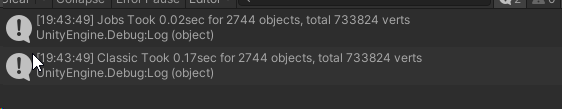
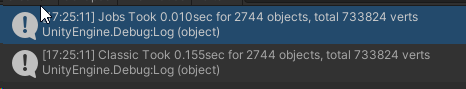
add

diff --git a/MyNote/快速学点MeshAPI.md b/MyNote/快速学点MeshAPI.md
@@ -32,6 +32,9 @@
   - [**3.1 基础准备**](#31-基础准备)
   - [**3.2 传统合并**](#32-传统合并)
   - [**3.3 Job合并**](#33-job合并)
+  - [**3.3.1 Job模板**](#331-job模板)
+  - [**3.3.2 属性**](#332-属性)
+  - [**3.3.3 合并**](#333-合并)
 
 <!-- /code_chunk_output -->
 
@@ -1071,7 +1074,9 @@ public class CombineSceneMesh : MonoBehaviour
 
 修改方法 **CreateMesh_ClassicAPI**, 先写传统的合并Mesh方法.
 
-这里normal用重新计算, 效率会快点.
+顶点位置做一次矩阵转换, 然后顶点索引做Offset即可.
+
+这里normal用自动生成 效率会快点.
 
 ```CSharp
 
@@ -1126,15 +1131,16 @@ public static void CreateMesh_ClassicAPI(GameObject root, Material mat)
 	newMesh.RecalculateNormals();
 
 	var dur = sw.ElapsedMilliseconds;
-	Debug.Log($"Classic Took {dur / 1000.0:F2}sec for {meshFilters.Length} objects, total {allVerts.Count} verts");
+	Debug.Log($"Classic Took {dur / 1000.0:F3}sec for {meshFilters.Length} objects, total {allVerts.Count} verts");
 }
 
 ```
 
 ### **3.3 Job合并**
 
-先创建 **ProcessMeshDataJob** .
+### **3.3.1 Job模板**
 
+先创建Job **ProcessMeshDataJob** 的模板.
 
 ```CSharp
 
@@ -1163,6 +1169,108 @@ public class CombineSceneMesh : MonoBehaviour
 }
 
 ```
+
+### **3.3.2 属性**
+
+先写属性吧.
+
+可以把Job想成多线程, 所以 导出的数据 要提前划分好写入区间, 避免写入的时候出现覆盖等情况. 这里的的执行数量 就是要合并模型的数量.
+
+创建方法 **CreateInputArrays** 用于初始化属性相关的容器. 数据可以不用初始化, 因为等下会在外面赋值的. 
+
+**Mesh.MeshDataArray meshData** 是要合并的Mesh数据. **Mesh.MeshData outputMesh** 是要导出的Mesh.
+
+Normla和Bound也都在Job里面一次性做完.
+
+```CSharp
+
+[BurstCompile]
+private struct ProcessMeshDataJob : IJobParallelFor
+{
+	[ReadOnly]
+	public Mesh.MeshDataArray meshData;
+
+	public Mesh.MeshData outputMesh;
+
+	//[DeallocateOnJobCompletion] 数组在运行完成时自动释放
+	[ReadOnly, DeallocateOnJobCompletion] 
+	public NativeArray<int> vertexStart;
+
+	[ReadOnly, DeallocateOnJobCompletion] 
+	public NativeArray<int> indexStart;
+
+	[ReadOnly, DeallocateOnJobCompletion] 
+	public NativeArray<float4x4> xform;
+
+	public NativeArray<float3x2> bounds;
+
+	//[NativeDisableContainerSafetyRestriction] 禁用安全性检查, 如果Job运行时, dispose NativeArray, Unity可能会崩溃
+	//https://docs.unity3d.com/cn/2019.4/ScriptReference/Unity.Collections.LowLevel.Unsafe.NativeDisableContainerSafetyRestrictionAttribute.html
+	[NativeDisableContainerSafetyRestriction]
+	public NativeArray<float3> tempVertices;
+
+	[NativeDisableContainerSafetyRestriction]
+	public NativeArray<float3> tempNormals;
+
+	public void CreateInputArrays(int meshCount)
+	{
+		vertexStart = new NativeArray<int>(meshCount, Allocator.TempJob, NativeArrayOptions.UninitializedMemory);
+		indexStart = new NativeArray<int>(meshCount, Allocator.TempJob, NativeArrayOptions.UninitializedMemory);
+		xform = new NativeArray<float4x4>(meshCount, Allocator.TempJob, NativeArrayOptions.UninitializedMemory);
+		bounds = new NativeArray<float3x2>(meshCount, Allocator.TempJob, NativeArrayOptions.UninitializedMemory);
+	}
+}
+
+```
+
+### **3.3.3 合并**
+
+继续完善Job 的 **Execute** .
+
+```CSharp
+
+[BurstCompile]
+private struct ProcessMeshDataJob : IJobParallelFor
+{
+	...
+
+	public void Execute(int index)
+	{
+		var data = meshData[index];
+		var vCount = data.vertexCount;
+		var mat = xform[index];
+		var vStart = vertexStart[index];
+
+		data.GetVertices(tempVertices.Reinterpret<Vector3>());
+		data.GetNormals(tempNormals.Reinterpret<Vector3>());
+
+		var outputVerts = outputMesh.GetVertexData<Vector3>();
+		var outputNormals = outputMesh.GetVertexData<Vector3>(stream: 1);
+
+		float3x2 b = new float3x2(Mathf.Infinity, Mathf.NegativeInfinity);
+		for (var i = 0; i < vCount; i++)
+		{
+			var pos = tempVertices[i];
+			pos = math.mul(mat, new float4(pos, 1)).xyz;
+			outputVerts[i + vStart] = pos;
+			var nor = tempNormals[i];
+			nor = math.normalize(math.mul(mat, new float4(nor, 0)).xyz);
+			outputNormals[i + vStart] = nor;
+			b.c0 = math.min(b.c0, pos);
+			b.c1 = math.max(b.c1, pos);
+		}
+	}
+}
+
+```
+
+**Job是多线程, 为什么临时容器不会出现竞争的情况?**
+
+在JobScheduler.ScheduleBatchedJobs方法被调用时, 会根据Job的数量将它们分成多个批次, 每个批次中的Job会在一个独立的线程中执行. 
+
+因此每个Job都有自己的内存空间, 不会与其他Job的内存发生冲突, 避免了资源争夺的情况.
+
+每个线程的Job要合并的每个Mesh的顶点数量不一样, 所以要对临时容器做动态扩容, 即释放再创建.
 
 -----------------
 
